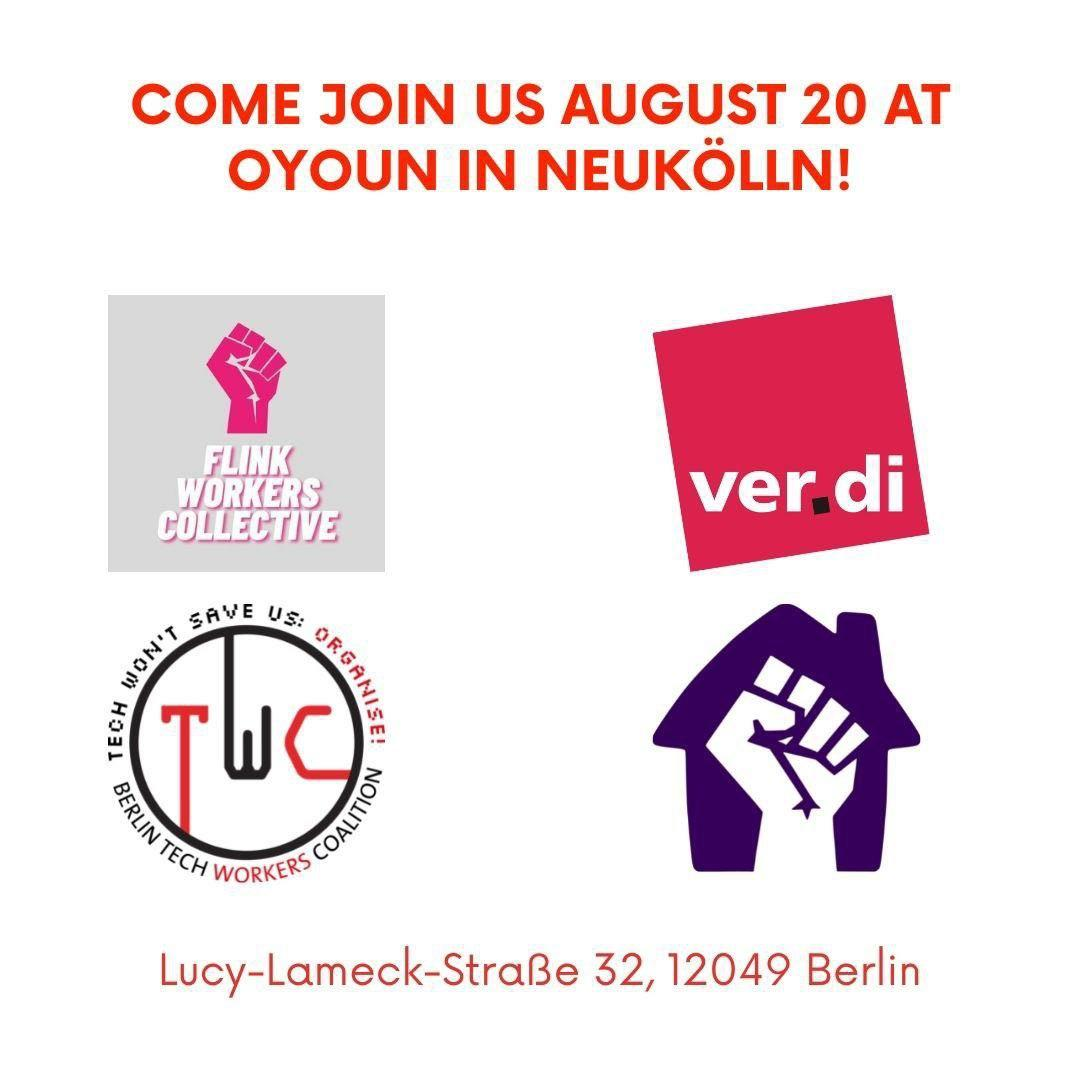
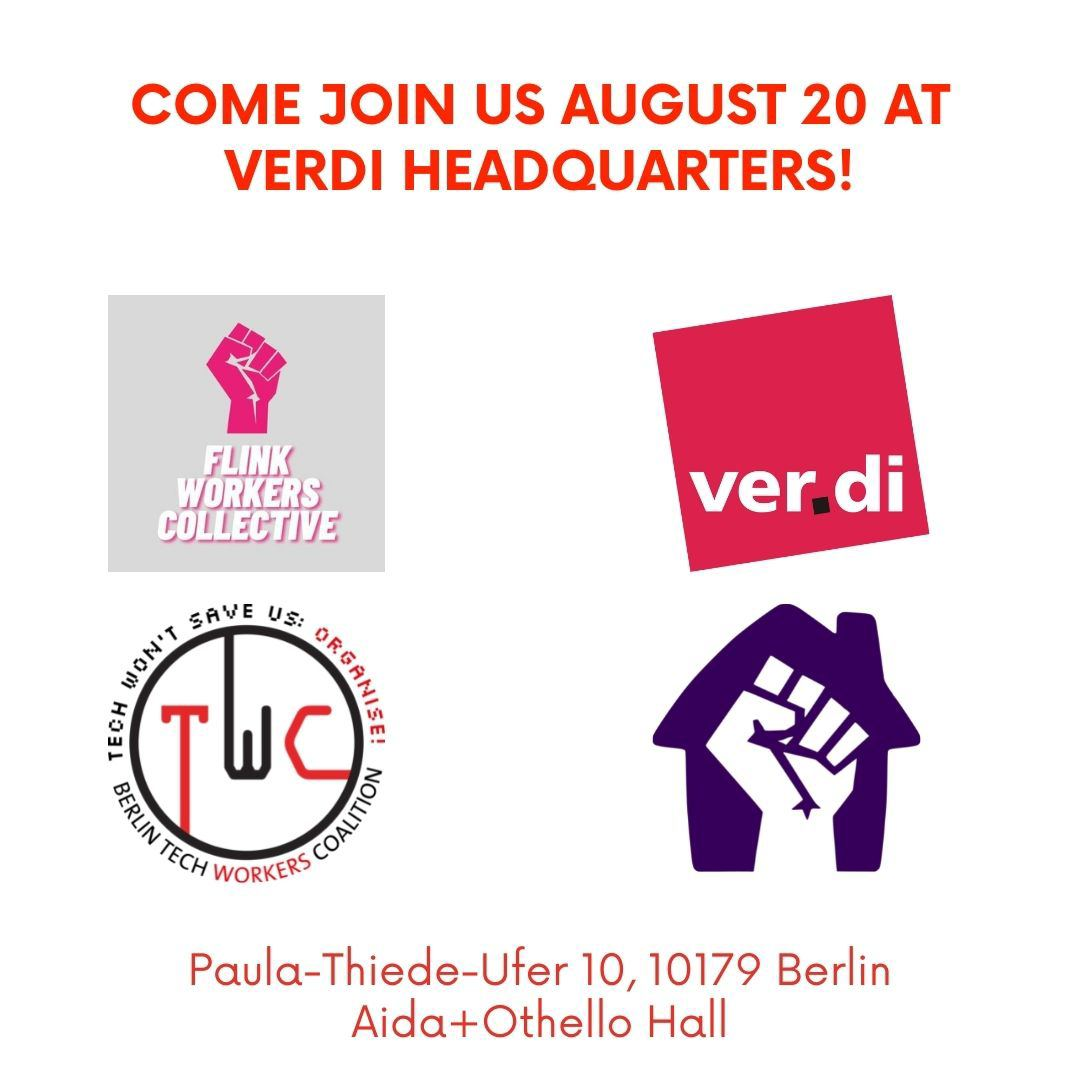
improve readability and update image with new address

Changed region(s): [[0.1222, 0.8556, 0.8556, 0.9778], [0.2139, 0.1222, 0.7944, 0.1833]]

diff --git a/_events/know-your-rights-powers-history.md b/_events/know-your-rights-powers-history.md
@@ -10,6 +10,10 @@ Join migrant workers in tech, aviation, and delivery at a workshop covering lega
 
 This event is free and there will be food! To help us with planning, please fill out the form below. We will share this info only with the event organisers.
 
+## Venue
+
+[ver.di trade union, Köpenicker Straße, Berlin](https://verdi.de/)
+
 <div class="social-links">
   <form name="verdi-kyr-event-2022" class="join-form" method="POST" data-netlify="true">
     <div>
@@ -49,15 +53,23 @@ This event is free and there will be food! To help us with planning, please fill
   </form>
 </div>
 
-## Venue
-
-[ver.di trade union, Köpenicker Straße, Berlin](https://verdi.de/)
-
 ![Know your rights, powers & history: legal advice, organizing workshop & history class. 20.08.2022 11:00-18:00 Oyoun Neukölln. School of Transnational Organizing.](/assets/img/photo_2022-07-29_15-47-26.jpg "Know your rights, powers and history")
 
-![Let's build migrant worker power: As part of the Mobile University for Migrant Workers project, Berlin migrant workers in tech, aviation, and delivery are warmly invited to: explore workplace rights they can call upon to build power over labor processes and win increased control over their lives; situate these rights within a broader "ecology" of powers that workers can co-develop to increase influence and transformative potential; position contemporary migrant worker struggles within a historical continuum that contextualizes contemporary tensions and points of conflict.](/assets/img/photo_2022-07-29_15-47-30.jpg "Let's build migrant worker power")
 
-![Schedule & speakers: 11:00 - Doors Open; 11:15 - Legal talk with Daniel Weidmann; 13:00 Lunch; 14:00 Ecology of Power Organizing Workshop w Mobile University for Migrant Worker Trainers; 15:30 Break; 16:00 Lessons from the History of Migrant Workers Struggles with Bernd Kasparek; 18:00 End](/assets/img/photo_2022-07-29_15-47-33.jpg "Schedule & Speakers")
+## Let's build migrant worker power
+As part of the Mobile University for Migrant Workers project, Berlin migrant workers in tech, aviation, and delivery are warmly invited to:
+* explore workplace rights they can call upon to build power over labor processes and win increased control over their lives
+* situate these rights within a broader "ecology" of powers that workers can co-develop to increase influence and transformative potential
+* position contemporary migrant worker struggles within a historical continuum that contextualizes contemporary tensions and points of conflict.
+
+## Schedule and speakers
+* Schedule & speakers: 11:00 - Doors Open
+* 11:15 - Legal talk with Daniel Weidmann
+* 13:00 Lunch
+* 14:00 Ecology of Power Organizing Workshop w Mobile University for Migrant Worker Trainers
+* 15:30 Break
+* 16:00 Lessons from the History of Migrant Workers Struggles with Bernd Kasparek
+* 18:00 Wrap up
 
 ![Come join us August 20 at verdi! Flink Workers Collective, ver.di, Berlin Tech Workers Coalition, and Lieferando Workers Collective. ver.di, Köpenicker Straße, Berlin](/assets/img/photo_2022-07-29_15-47-36.jpg "Come join us!")
 
